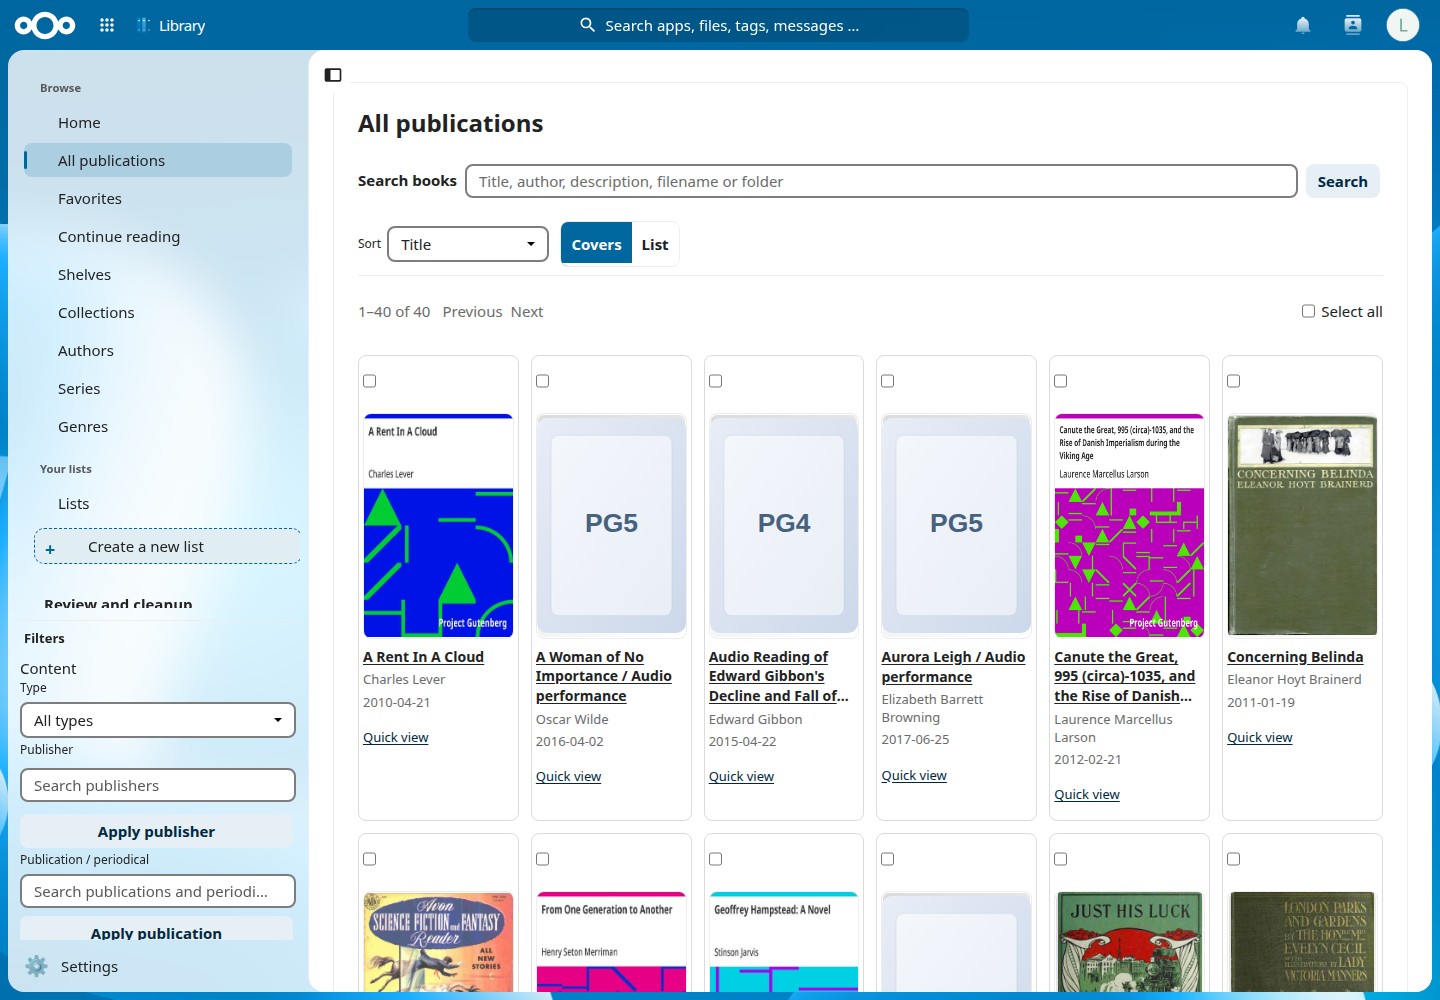
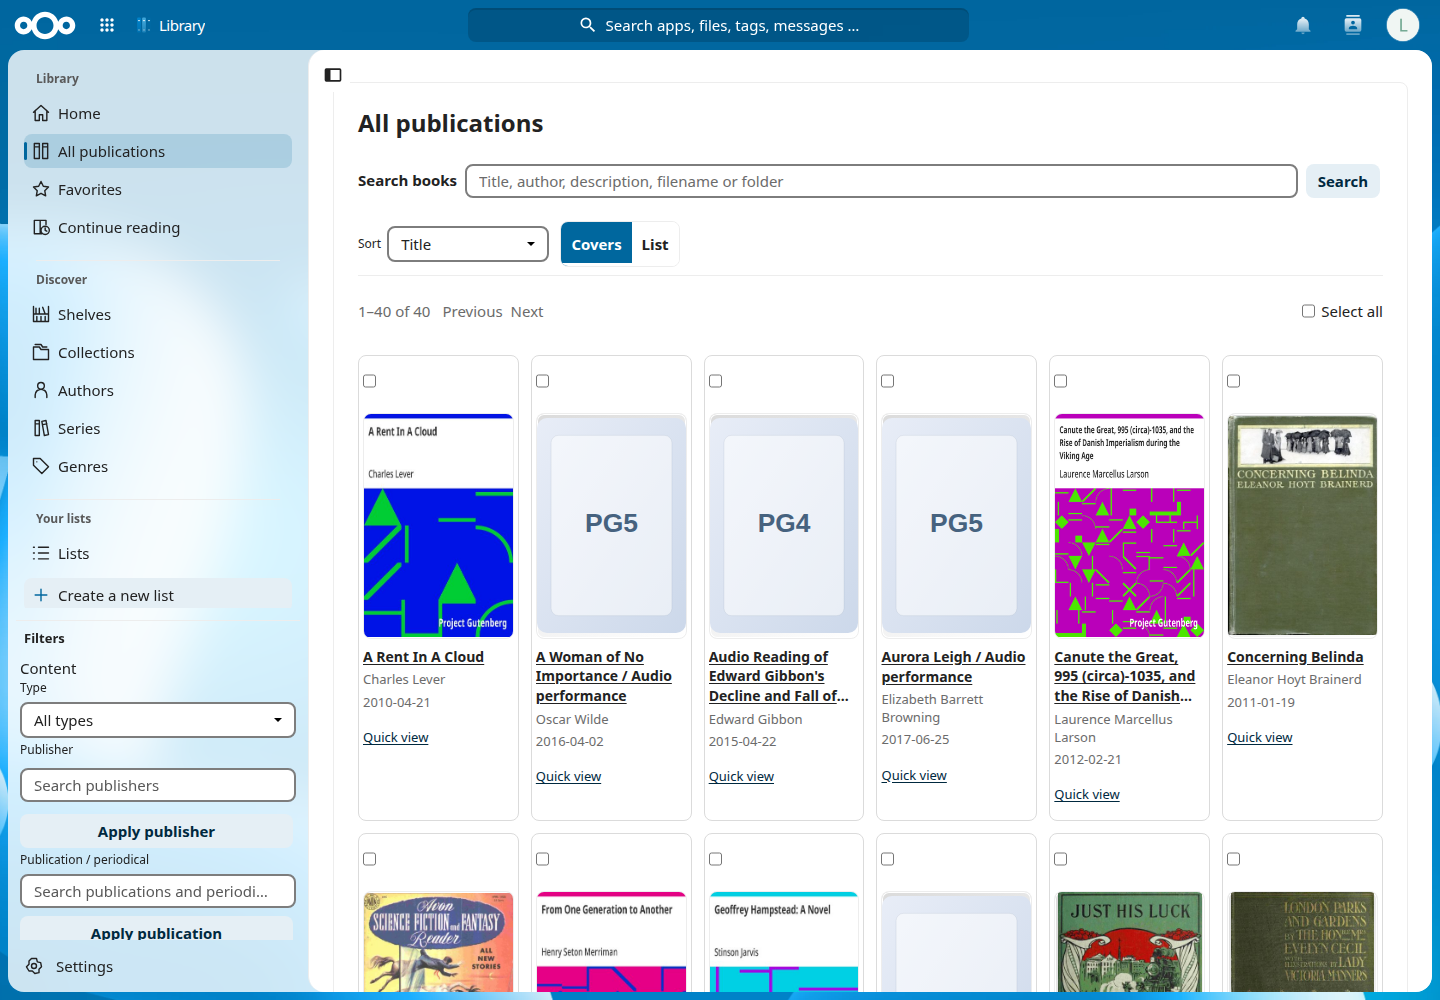
Capture the polished sidebar in current public screenshots

diff --git a/docs/images/first-library/README.md b/docs/images/first-library/README.md
@@ -1,6 +1,6 @@
-# Public screenshots — alpha.34
+# Public screenshots — alpha.35
 
-Captured on 2026-10-20 using the existing signed Library **0.3.0-alpha.34** archive on an isolated **Nextcloud 34.0.4** instance, Chromium, English UI, light theme and a **1440 × 1000** viewport. Settings images crop the relevant section; browsing images show the viewport. No image retouching was applied. The extraction capture uses a scroll offset to keep the preview below the Nextcloud header.
+Captured on 2026-10-20 using the signed screenshot candidate of Library **0.3.0-alpha.35** archive on an isolated **Nextcloud 34.0.4** instance, Chromium, English UI, light theme and a **1440 × 1000** viewport. Settings images crop the relevant section; browsing images show the viewport. No image retouching was applied. The extraction capture uses a scroll offset to keep the preview below the Nextcloud header.
 
 The source is the 40-book English Gutenberg EPUB fixture, copied into `/Books/Gutenberg English` for a disposable account. Book IDs and metadata titles are listed in [Gutenberg example books](../../gutenberg-example-books.md). The first scan added all 40 books with zero metadata errors. The daily schedule is demonstration data. The extraction screenshot additionally uses a synthetic EPUB named `Pride and Prejudice - Jane Austen (1813).epub`; it is a filename tutorial, not a complete copy of that book. The final disposable catalogue therefore contains 41 records.
 
@@ -29,7 +29,7 @@ From the repository root, provide the signed archive and a local copy of the Gut
 export NC_VERSION=34.0.4
 export LIBRARY_LISTS_PREFIX=library-public-capture
 export LIBRARY_LISTS_WORK_DIR=/tmp/library-public-capture
-export LIBRARY_TEST_ARCHIVE="$PWD/dist/library-0.3.0-alpha.34.tar.gz"
+export LIBRARY_TEST_ARCHIVE="$PWD/dist/library-0.3.0-alpha.35.tar.gz"
 GUTENBERG_ARCHIVE=/tmp/library-beta2/gutenberg-en-40.tar.gz
 unset LIBRARY_BOOK_FIXTURE_ARCHIVE LIBRARY_BETA_ARCHIVE
 bash scripts/dev-lists-instance.sh start
@@ -50,4 +50,4 @@ bash scripts/dev-lists-instance.sh stop
 
 Both scripts require the disposable-instance ownership label. The first script requires no existing Library roots, saves the shelf through the UI, queues its scan, invokes the worker, captures the completed result and saves a daily schedule. The second starts with the 40-book catalogue and creates its synthetic extraction fixture after capturing browsing screens. Use a fresh instance when repeating the complete sequence; these are first-use capture tools, not idempotent maintenance commands. If capture fails, stop the disposable instance after inspecting the error.
 
[2 lines of base64/hex data omitted]

diff --git a/docs/compatibility-evidence/2026-10-20-nc34-sidebar-alpha35/README.md b/docs/compatibility-evidence/2026-10-20-nc34-sidebar-alpha35/README.md
@@ -18,7 +18,7 @@ The source build was installed only in the disposable Gutenberg screenshot conta
 
 The local full check passed 1,051 source contracts, 591 frontend tests, PHP runtime checks, 518 inference vectors, translation checks, build and Markdown links, including a repeat after the version bump. The translation check first found the now-unused Browse label; removing it from all three catalogues restored the inventory check. The first version-bump check identified stale candidate references in release documentation; those references and the handbook package link were corrected before the successful repeat. Final versioned package, CI and deployment results will be recorded below.
 
-Human acceptance: [H03-26](../../human-test-handbook.md#h03-26--final-consistency-acceptance). The [alpha.34 public screenshots](../../images/first-library/README.md) remain accurately labelled as that build; this sidebar refresh is newer.
+Human acceptance: [H03-26](../../human-test-handbook.md#h03-26--final-consistency-acceptance). The [public screenshots](../../images/first-library/README.md) were refreshed again on a fresh installation of the signed alpha.35 screenshot candidate. All ten images were inspected; the first scan indexed 40 Gutenberg files without errors. The source package passed signature, SBOM, provenance and frontend-size audits (1,021,563 / 1,320,000 bytes). A second focused Chromium/Firefox run against that installed package passed all 12 viewport/page combinations with zero Library HTTP failures or page errors. An earlier Basic-auth source-fixture run encountered a transient SQLite lock; the final run used normal session login on a fresh fixture.
 
 ## Deployment
 

diff --git a/docs/app-store-listing.md b/docs/app-store-listing.md
@@ -1,8 +1,8 @@
 # App Store listing draft
 
-Status: copy and screenshots refreshed against signed 0.3.0-alpha.34 on 2026-10-20; final candidate review remains required before submission.
+Status: copy and screenshots refreshed against signed 0.3.0-alpha.35 on 2026-10-20; final candidate review remains required before submission.
 Target app version: 0.3, subject to exact archive verification.
-Compatibility target: Nextcloud 33–35. Current NC34 verification is recorded for alpha.34; the final exact-package NC33–35 matrix remains a release gate.
+Compatibility target: Nextcloud 33–35. Current NC34 verification is recorded for alpha.35; the final exact-package NC33–35 matrix remains a release gate.
 
 ## Short description
 
@@ -63,7 +63,7 @@ Bug reports are most useful when they include the app version, Nextcloud version
 
 Prepared screenshots for owner review:
 
-Captured from signed Library 0.3.0-alpha.34 on disposable Nextcloud 34.0.4 using the public Gutenberg fixture and a synthetic metadata tutorial file. All are below 2 MiB, and contain no real-library filenames or credentials:
+Captured from signed Library 0.3.0-alpha.35 on disposable Nextcloud 34.0.4 using the public Gutenberg fixture and a synthetic metadata tutorial file. All are below 2 MiB, and contain no real-library filenames or credentials:
 
 1. [Catalogue](images/appstore-catalogue.png)
 2. [Publication details](images/appstore-details.png)

diff --git a/docs/testing-maintenance-audit-2026-10-20.md b/docs/testing-maintenance-audit-2026-10-20.md
@@ -78,3 +78,5 @@ Refreshed the public README, first-library walkthrough and App Store listing dra
 All ten images were visually inspected. The settings screenshots retain two observed presentation issues for human follow-up: the Add a shelf inputs truncate their example values despite spare row space, and the Changes found tile's long moved/renamed label overlaps its count at this width. The captures are not retouched to conceal either issue. Catalogue placeholders are intentional where the fixture has no cover. This is screenshot verification, not a new compatibility certification.
 
 Capture commands and provenance are in [the image record](images/first-library/README.md). Local logs: `/tmp/library-public-capture-first.log` and `/tmp/library-public-capture-store.log`. The developer instance and existing books were not modified. The App Store's historical screenshot URLs still need the final published release tag before submission.
+
+The subsequently requested sidebar update is tracked separately as alpha.35. Its [verification record](compatibility-evidence/2026-10-20-nc34-sidebar-alpha35/README.md) includes a second fresh-package screenshot capture, which supersedes the public alpha.34 images above. The original alpha.34 refresh remains in PR #129's commit history.

diff --git a/README.md b/README.md
@@ -40,7 +40,7 @@ The app has safe user-facing diagnostics for scan and metadata problems. Server 
 
 ![Filename metadata extraction with a selected-record preview](docs/images/appstore-inference.png)
 
-Screenshots show the actual alpha.34 interface on an isolated Nextcloud 34 instance, using the [English Gutenberg examples](docs/gutenberg-example-books.md) and a synthetic filename-extraction example. [Capture details and reproduction](docs/images/first-library/README.md).
+Screenshots show the actual alpha.35 interface on an isolated Nextcloud 34 instance, using the [English Gutenberg examples](docs/gutenberg-example-books.md) and a synthetic filename-extraction example. [Capture details and reproduction](docs/images/first-library/README.md).
 
 ## Your first library
 

diff --git a/docs/first-library.md b/docs/first-library.md
@@ -1,6 +1,6 @@
 # Your first library
 
-Turn a folder of English Project Gutenberg books into a catalogue you can search, browse and open. The instructions and screenshots use **0.3.0-alpha.34** on Nextcloud **34.0.4**, with 40 EPUB files. You can follow the steps with just a few books.
+Turn a folder of English Project Gutenberg books into a catalogue you can search, browse and open. The instructions and screenshots use **0.3.0-alpha.35** on Nextcloud **34.0.4**, with 40 EPUB files. You can follow the steps with just a few books.
 
 ## Before you start
 
